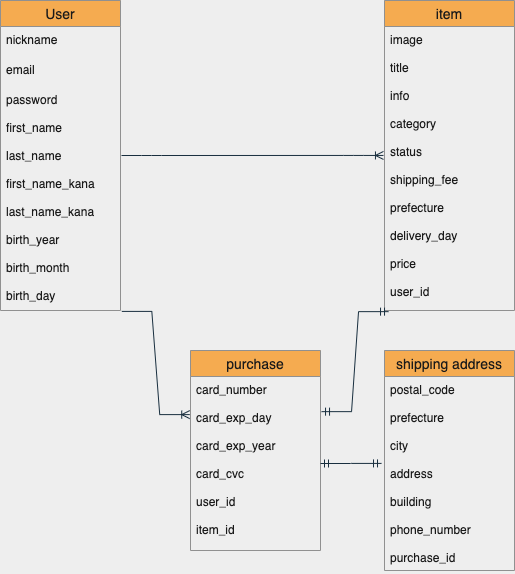
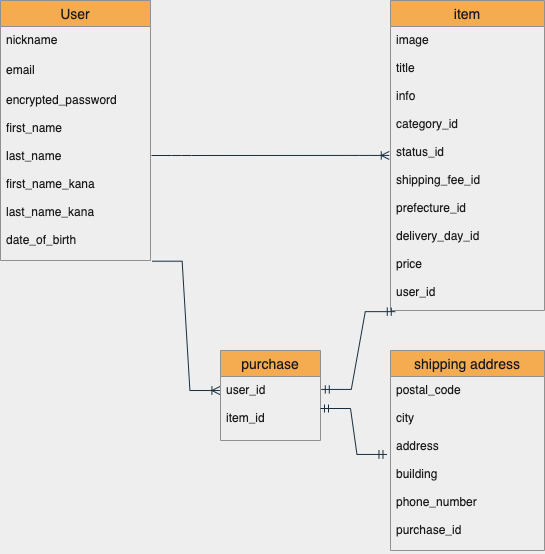
データベース設計修正

diff --git a/README.md b/README.md
@@ -2,35 +2,33 @@
 
 ## users テーブル
 
-| Column          | Type    | Options     |
-| --------------- | ------- | ----------- |
-| nickname        | string  | null: false |
-| email           | string  | null: false |
-| password        | string  | null: false |
-| first_name      | string  | null: false |
-| last_name       | string  | null: false |
-| first_name_kana | string  | null: false |
-| last_name_kana  | string  | null: false |
-| birth_year      | integer | null: false |
-| birth_month     | integer | null: false |
-| birth_day       | integer | null: false |
+| Column             | Type    | Options                   |
+| ------------------ | ------- | ------------------------- |
+| nickname           | string  | null: false               |
+| email              | string  | null: false, unique: true |
+| encrypted_password | string  | null: false               |
+| first_name         | string  | null: false               |
+| last_name          | string  | null: false               |
+| first_name_kana    | string  | null: false               |
+| last_name_kana     | string  | null: false               |
+| date_of_birth      | date    | null: false               |
 
 ### Association
 -has_many :items
 -has_many :purchases
 
 ## items テーブル
-| Column       | Type       | Options                        |
-| ------------ | ---------- | ------------------------------ |
-| title        | string     | null: false                    |
-| info         | text       | null: false                    |
-| category     | string     | null: false                    |
-| status       | string     | null: false                    |
-| shipping_fee | string     | null: false                    |
-| prefecture   | string     | null: false                    |
-| delivery_day | string     | null: false                    |
-| price        | integer    | null: false                    |
-| user         | references | null: false, foreign_key: true |
+| Column          | Type       | Options                        |
+| --------------- | ---------- | ------------------------------ |
+| title           | string     | null: false                    |
+| info            | text       | null: false                    |
+| category_id     | integer    | null: false                    |
+| status_id       | integer    | null: false                    |
+| shipping_fee_id | integer    | null: false                    |
+| prefecture_id   | integer    | null: false                    |
+| delivery_day_id | integer    | null: false                    |
+| price           | integer    | null: false                    |
+| user            | references | null: false, foreign_key: true |
 
 ### Association
 -belongs_to :user
@@ -39,10 +37,6 @@
 ## purchases テーブル
 | Column        | Type       | Options                        |
 | ------------- | ---------- | ------------------------------ |
-| card_number   | integer    | null: false                    |
-| card_exp_day  | integer    | null: false                    |
-| card_exp_year | integer    | null: false                    |
-| card_cvc      | integer    | null: false                    |
 | user          | references | null: false, foreign_key: true |
 | item          | references | null: false, foreign_key: true |
 
@@ -55,11 +49,10 @@
 | Column       | Type       | Options                        |
 | ------------ | ---------- | ------------------------------ |
 | postal_code  | string     | null: false                    |
-| prefecture   | string     | null: false                    |
 | city         | string     | null: false                    |
 | address      | string     | null: false                    |
 | building     | string     | null: false                    |
-| phone_number | integer    | null: false                    |
+| phone_number | string     | null: false                    |
 | purchase     | references | null: false, foreign_key: true |
 
 ### Association
